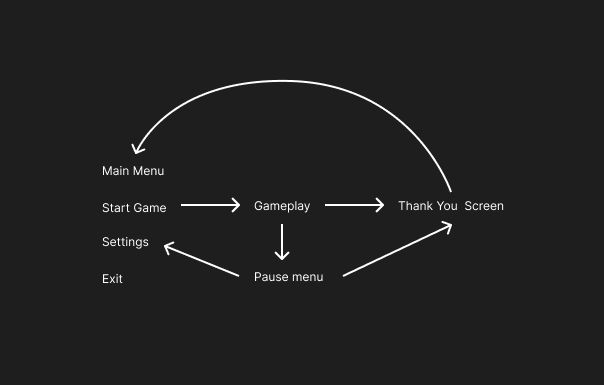
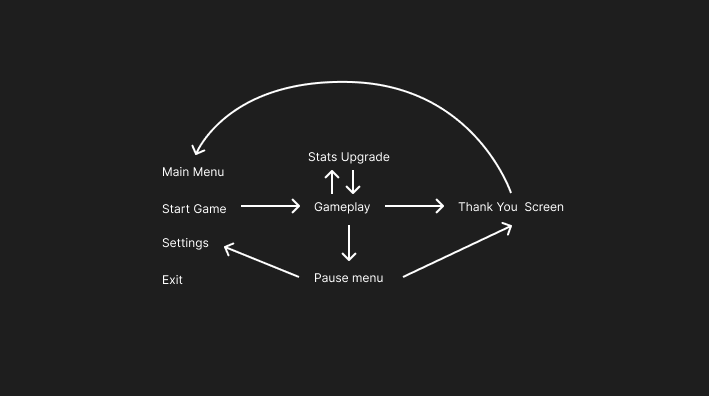
Updated game 1.html #2

diff --git a/public/blogs/game 1.html b/public/blogs/game 1.html
@@ -74,6 +74,17 @@
           <img src="./project_h/main_menu_idea.png" width="560" height="315">
         </div>
 
+        <h2>Stats Menu</h2>
+        <p>
+          This menu was to provide stat upgrades to make the character stronger as you progress through the game. We thought about the character 
+          obtaining loot as they fall, however we decided that having a more simpler card system would satisfy the player instead. By selecting a card, 
+          you’re given a stat upgrade to fight  against more difficult mobs.
+        </p>
+
+        <div>
+          <img src="./project_h/stats_menu.png" width="560" height="315">
+        </div>
+
         <h2>Pause Menu</h2>
         <p>
           The pause menu needed to be simple and snappy as people either had to move on and had to reset the game and game timer within the games flow. 